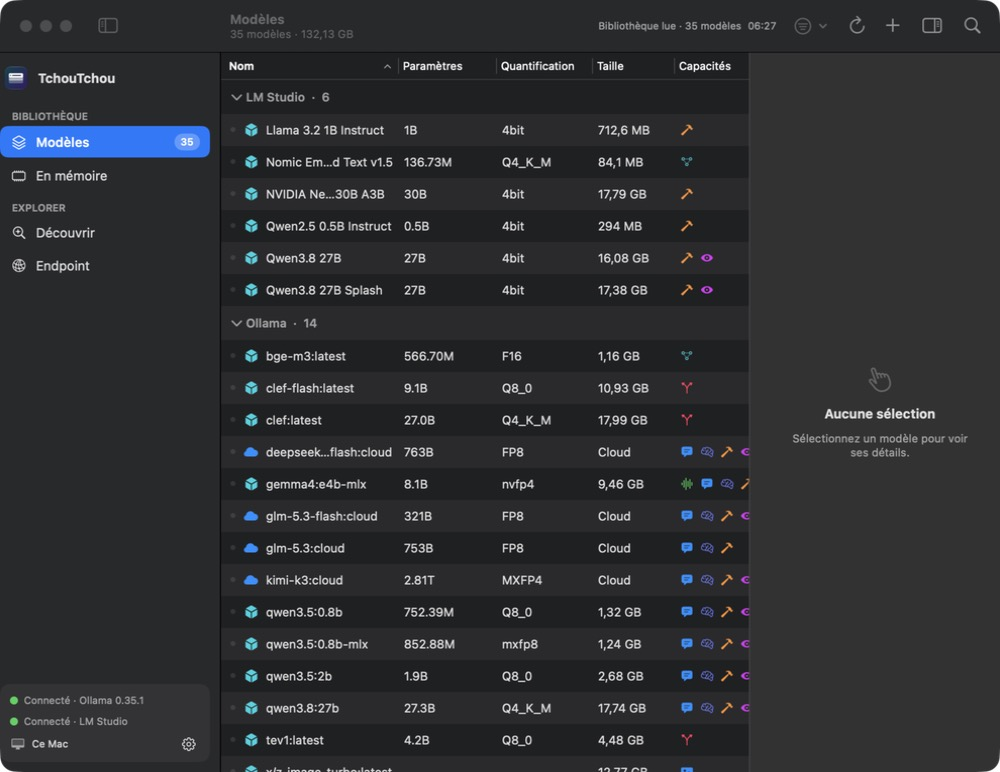
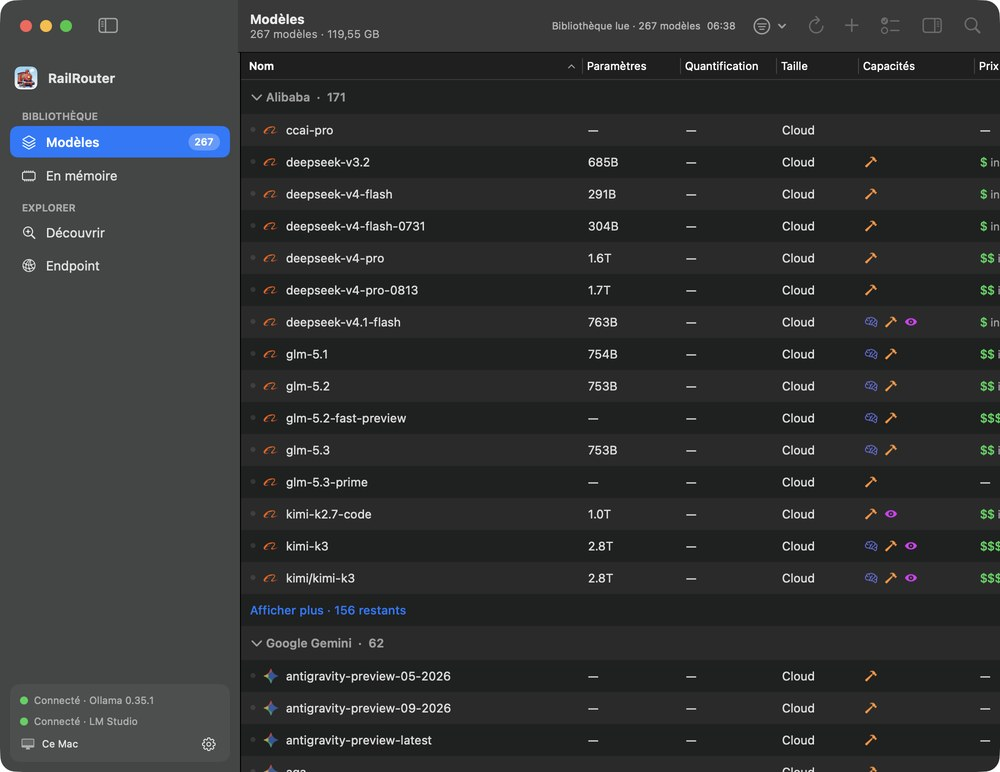
Add a one-line installer and refresh the screenshot
install.sh clones to a temporary folder, runs `make install` and opens the
app; the READMEs and the landing page document the curl | bash one-liner.

diff --git a/docs/index.html b/docs/index.html
@@ -33,7 +33,7 @@
   <p class="lead">A local LLM switchyard for macOS. See every model on your Mac, and send each request to the right engine through one OpenAI-compatible endpoint.</p>
   <div class="cta">
     <a class="primary" href="https://github.com/Hugo291/RailRouter">View on GitHub</a>
-    <a class="secondary" href="https://github.com/Hugo291/RailRouter#build-and-install">Build it</a>
+    <a class="secondary" href="https://github.com/Hugo291/RailRouter#quick-install">Install it</a>
   </div>
 
   <img class="shot" src="screenshot.jpg" alt="RailRouter model library window">
@@ -44,6 +44,10 @@
     <div class="card"><h3>Discover</h3><p>Search Ollama, Hugging Face and LM Studio catalogs. Filter by capability, sort by popularity or newest.</p></div>
     <div class="card"><h3>Endpoint</h3><p>One address, <code>127.0.0.1:41235/v1</code>. Routes by model to Ollama, LM Studio, MLX and free OpenRouter models.</p></div>
   </div>
+
+  <h2>Quick install</h2>
+<pre>curl -fsSL https://raw.githubusercontent.com/Hugo291/RailRouter/main/install.sh | bash</pre>
+  <p>Clones, builds and copies RailRouter to <code>/Applications</code>. Needs the Swift toolchain (<code>xcode-select --install</code>).</p>
 
   <h2>Use it</h2>
 <pre>make test

diff --git a/README.md b/README.md
@@ -31,6 +31,15 @@ The endpoint listens on loopback only and keeps running after the window is clos
 - macOS 14 or later, Swift 5.9+ toolchain (Xcode or Command Line Tools)
 - At least one of: Ollama, LM Studio, an MLX server
 
+## Quick install
+
+```sh
+curl -fsSL https://raw.githubusercontent.com/Hugo291/RailRouter/main/install.sh | bash
+```
+
+Clones the repository to a temporary folder, builds, copies the app to `/Applications` and opens it.
+Needs the Swift toolchain (`xcode-select --install`).
+
 ## Build and install
 
 ```sh

diff --git a/README.fr.md b/README.fr.md
@@ -27,6 +27,15 @@ L'endpoint n'écoute que sur la boucle locale et continue après fermeture de la
 
 macOS 14+, toolchain Swift 5.9+, et au moins un moteur : Ollama, LM Studio ou un serveur MLX.
 
+## Installation rapide
+
+```sh
+curl -fsSL https://raw.githubusercontent.com/Hugo291/RailRouter/main/install.sh | bash
+```
+
+Clone le dépôt dans un dossier temporaire, compile, copie l'app dans `/Applications` et l'ouvre.
+Nécessite la toolchain Swift (`xcode-select --install`).
+
 ## Construire et installer
 
 ```sh
